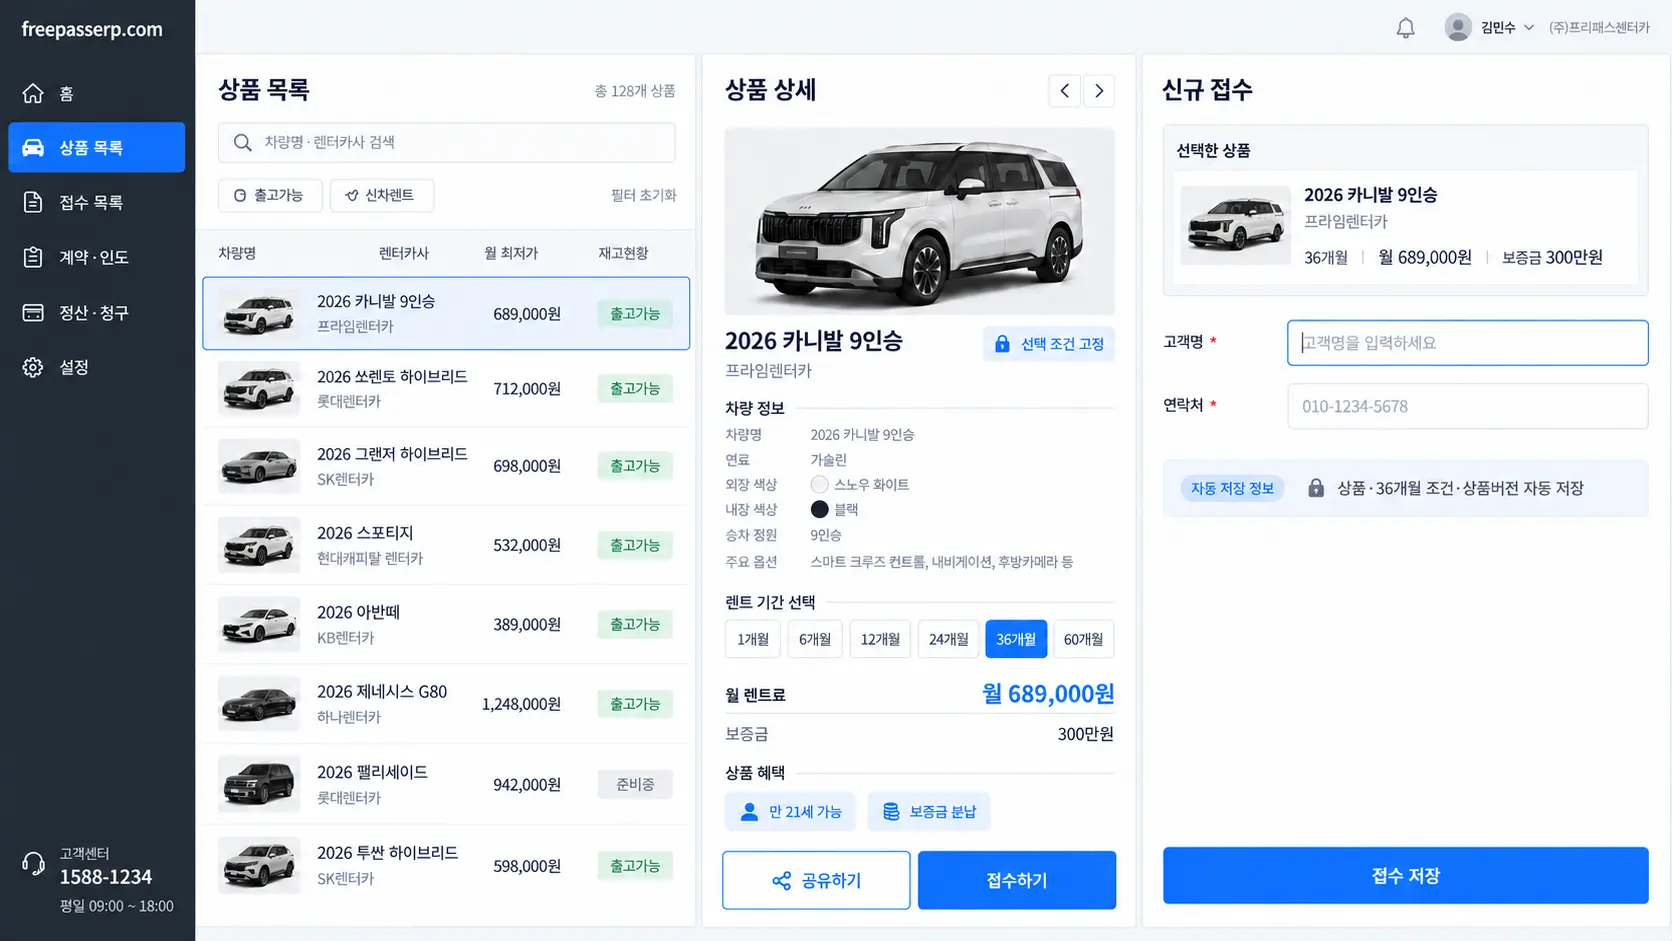
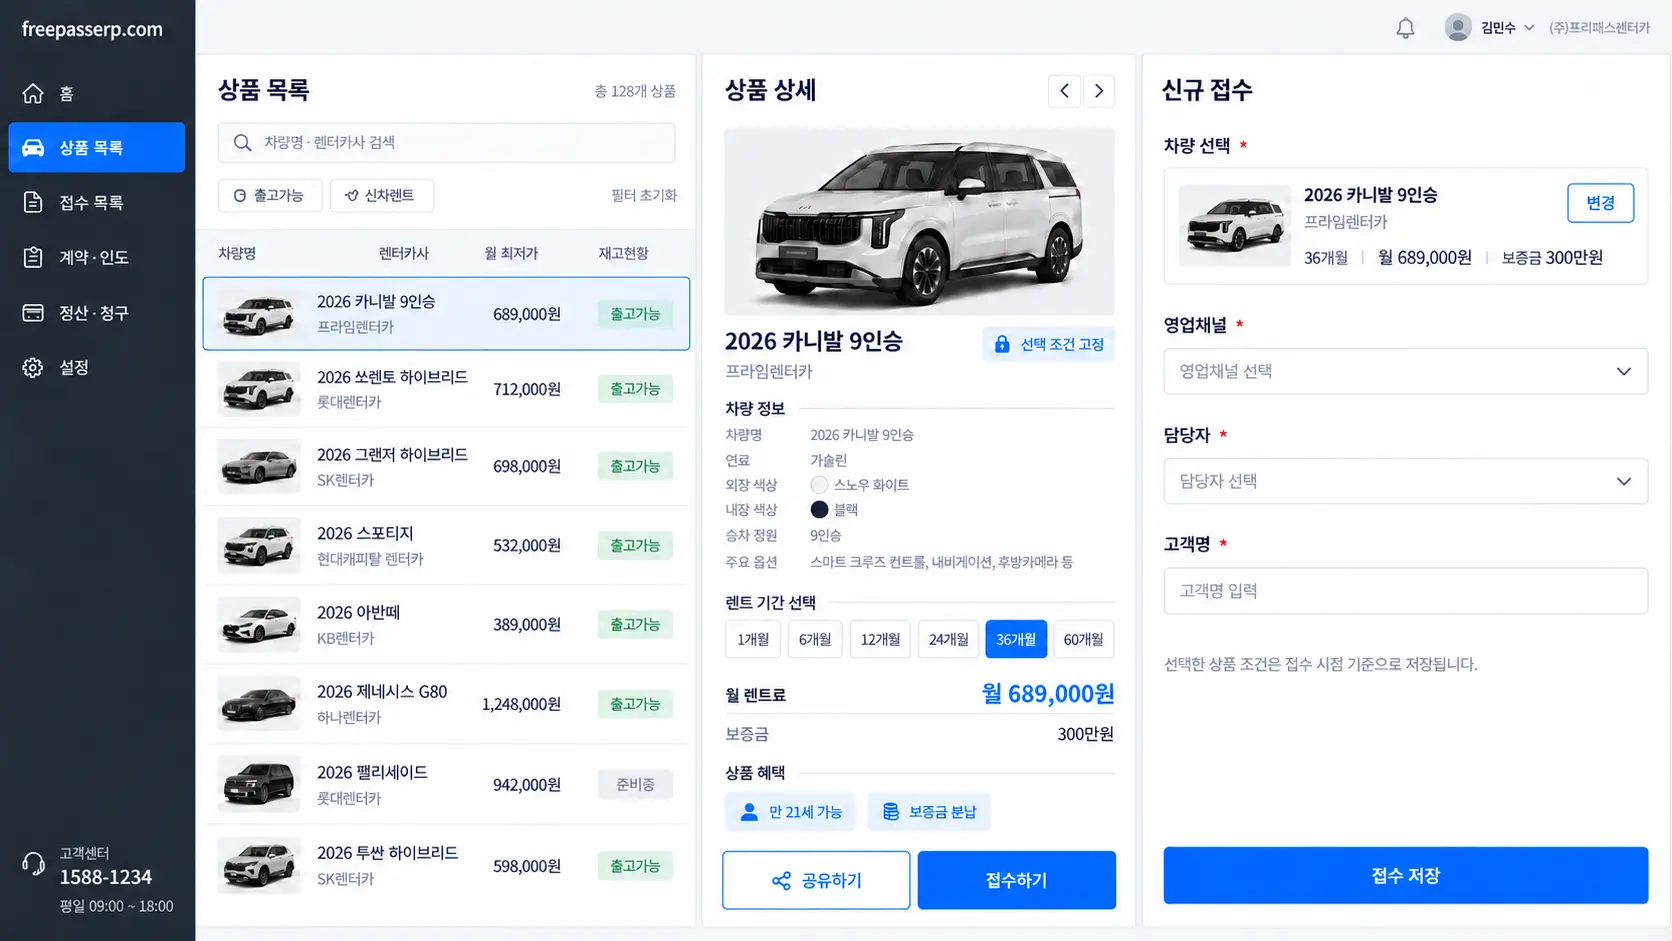
docs: correct required application intake fields

diff --git a/docs/reviews/FPERP-UI-P2-001.md b/docs/reviews/FPERP-UI-P2-001.md
@@ -12,8 +12,8 @@ Approve the fastest practical ADMIN product-to-application workflow before imple
 - Mobile: `LIST → DETAIL → WORK`
 - Application list row: one click/tap opens application detail
 - Back: restore search, filters, sort, scroll, and selected row
-- Employee manual input: exactly `customer name` and `phone`
-- Product, matched Offer, Policy, product version, IDs, status, timestamps, and source/channel: system-generated or read-only Snapshot
+- Required intake items: exactly `vehicle selection`, `sales channel`, `assignee`, and `customer name`
+- Vehicle and matched Offer are prefilled from product detail; sales channel and assignee are selected; product version, Policy, IDs, status, and timestamps are system-generated or read-only Snapshot
 
 ## Fixed source revisions
 
@@ -32,14 +32,14 @@ Existing ERP assets are `REFERENCE_ONLY`. Automatic code, DB, Firebase, API, she
 
 | Review target | Repository path | SHA-256 |
 |---|---|---|
[5 lines of base64/hex data omitted]
 
 ## Performance intent
 
 1. After selecting a product, no repeated product/condition entry.
-2. Keyboard order: customer name → phone → save.
+2. Intake order: vehicle selection → sales channel → assignee → customer name → save. Product-flow entry prefills the vehicle.
 3. Save is idempotent; repeated taps cannot create duplicate applications.
 4. Successful save opens the created application detail immediately.
 5. Application detail shows `접수 당시 조건 / Snapshot`, not mutable current-product values.
@@ -54,6 +54,7 @@ Existing ERP assets are `REFERENCE_ONLY`. Automatic code, DB, Firebase, API, she
 - Current Application Snapshot lacks required `productVersionId`; nested Policy arrays are not fully cloned.
 - The repository currently has only `dev`, `build`, `start`, and `typecheck` scripts. Do not claim lint/test/e2e/performance evidence before those checks exist.
 - The rejected `ERP5` name must not appear in new task IDs or UI copy.
+- The user's latest instruction supersedes the previous two-field assumption: the four required items are vehicle selection, sales channel, assignee, and customer name. Phone is not a required intake field.
 
 ## Named independent reviews
 
@@ -84,8 +85,8 @@ AI Core resolves pointers, revisions, conflicts, and gates. It does not approve,
 
 ## Provisional acceptance targets
 
-- Manual fields: exactly 2
-- Product selection → save: no extra selection after product/Offer choice
+- Required intake items: exactly 4 — vehicle selection, sales channel, assignee, customer name
+- Product-detail entry → save: vehicle prefilled; select sales channel and assignee, enter customer name; no repeated product/Offer condition entry
 - Median application completion time: ≤ 30 seconds in employee pilot
 - Back-state restoration: 100%
 - Duplicate save under repeated tap/retry: 0 duplicates
